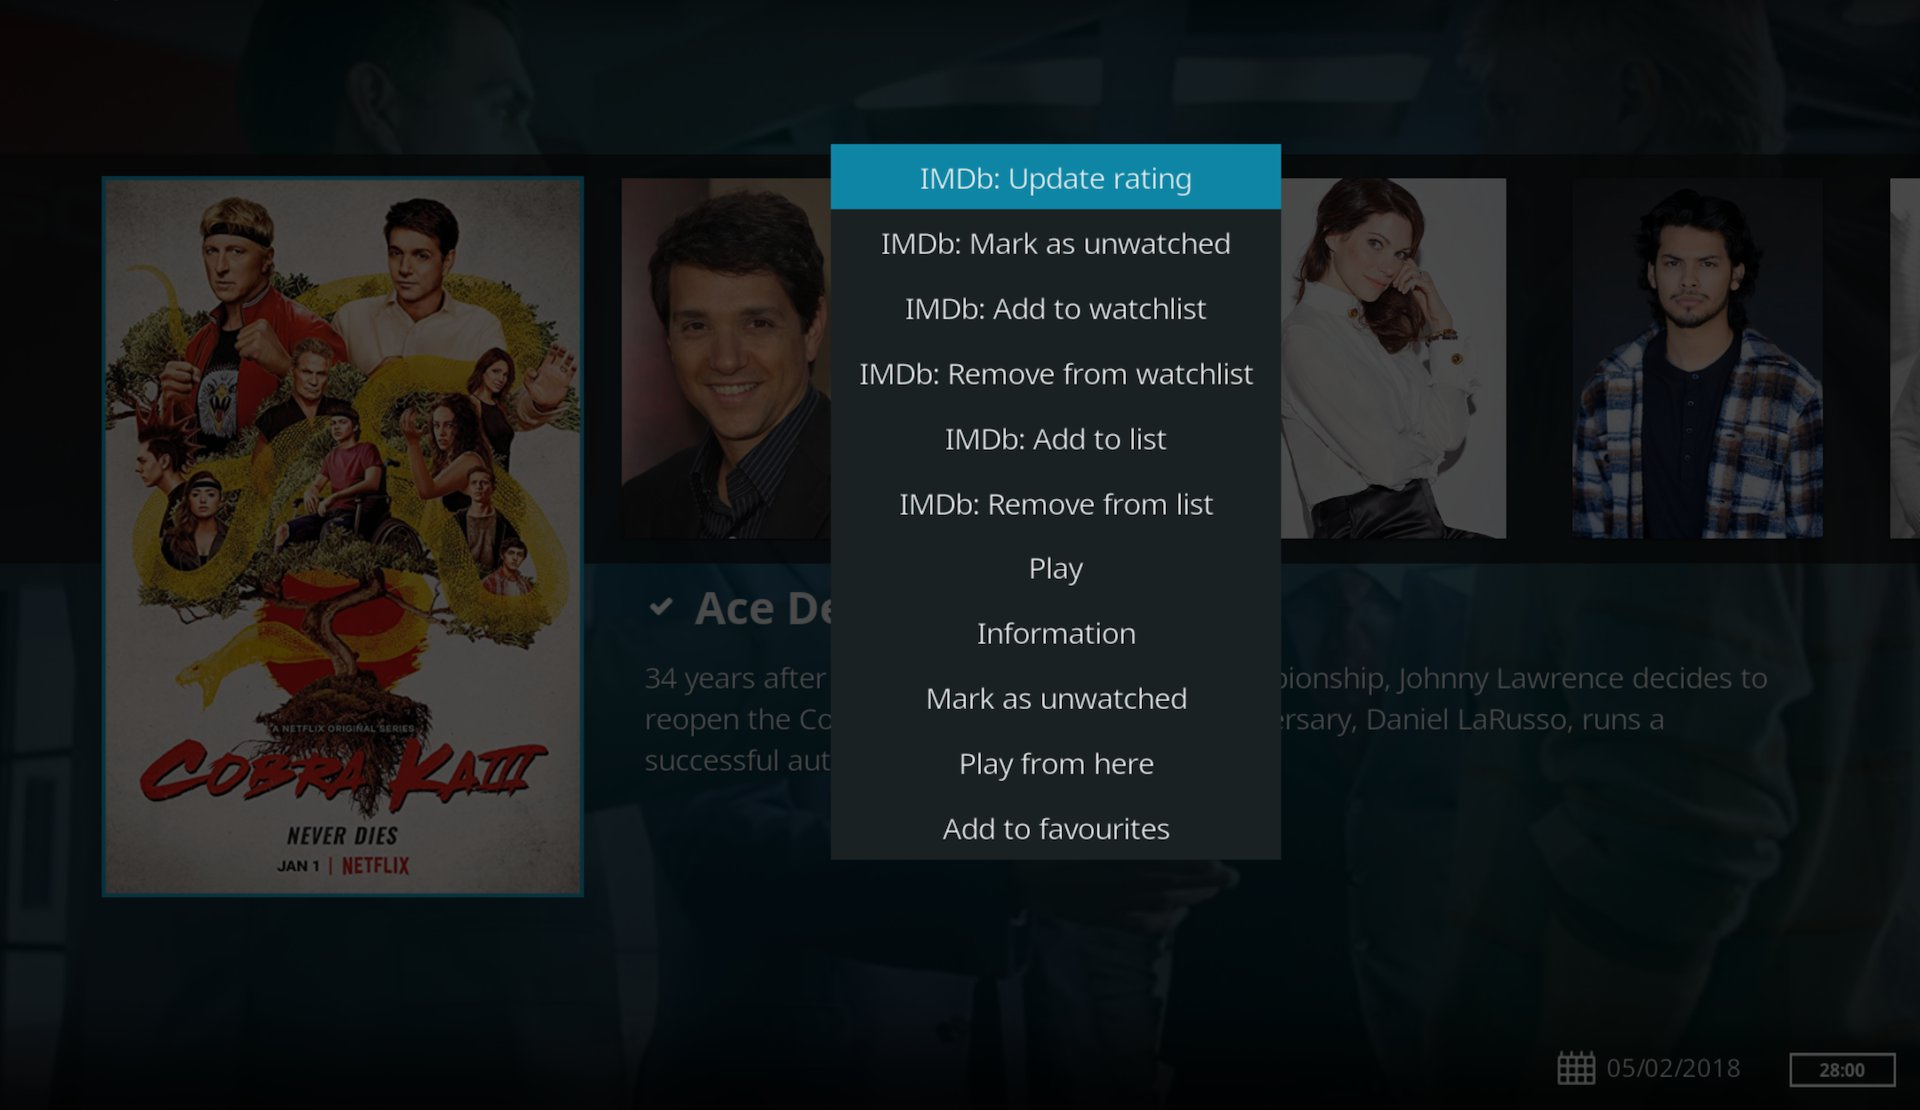
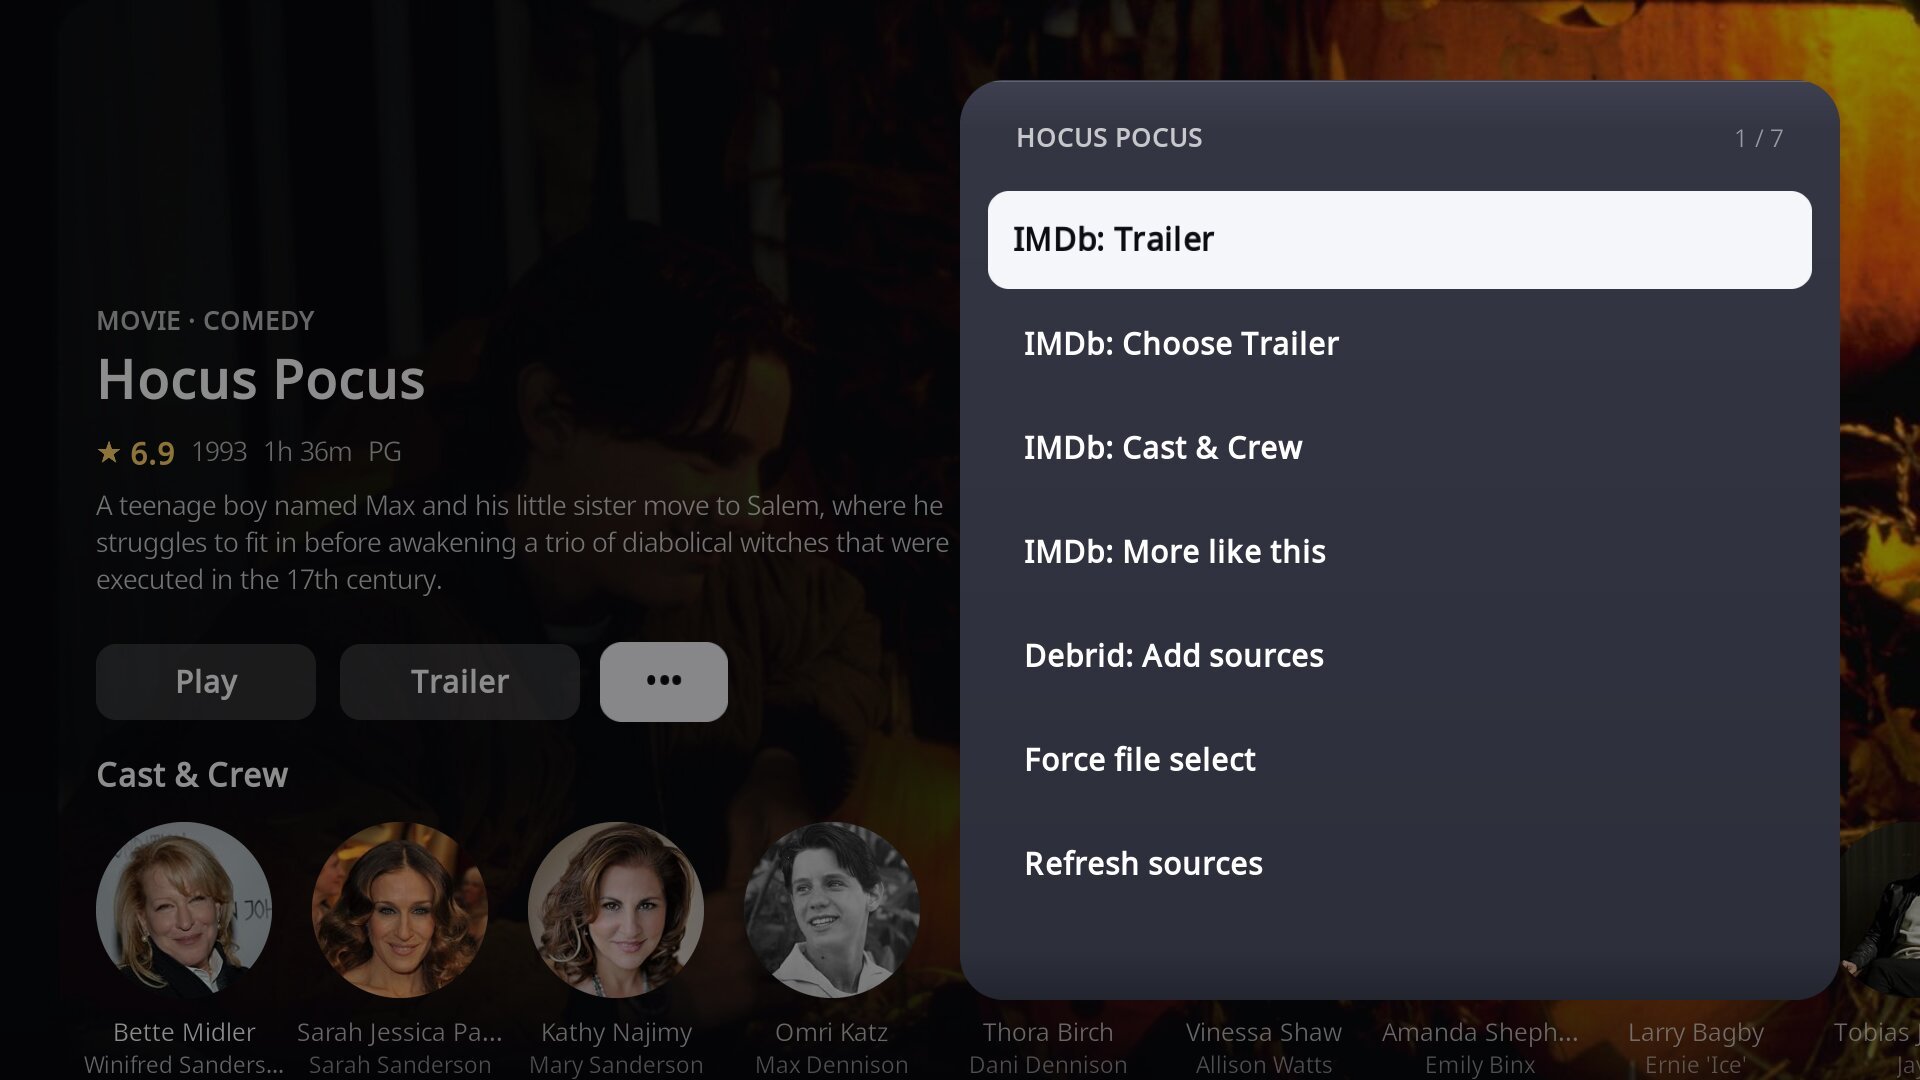
docs: refresh the README preview and screenshots with the new interface

diff --git a/README.md b/README.md
@@ -11,10 +11,10 @@
 
 IMDb-based media browser addon for KODI with streaming support via external providers.
 <br/>
-Designed for low-end devices and Estuary skin.
+A TV-style interface (top shelf, rows, title detail, browse grid), with the classic Estuary listings available in settings.
 
 ## Preview
-![usage](https://media.giphy.com/media/IdUqHVT9dxgZ5YEObr/source.gif)
+![preview](preview.gif)
 
 ## Features
   * IMDb:
